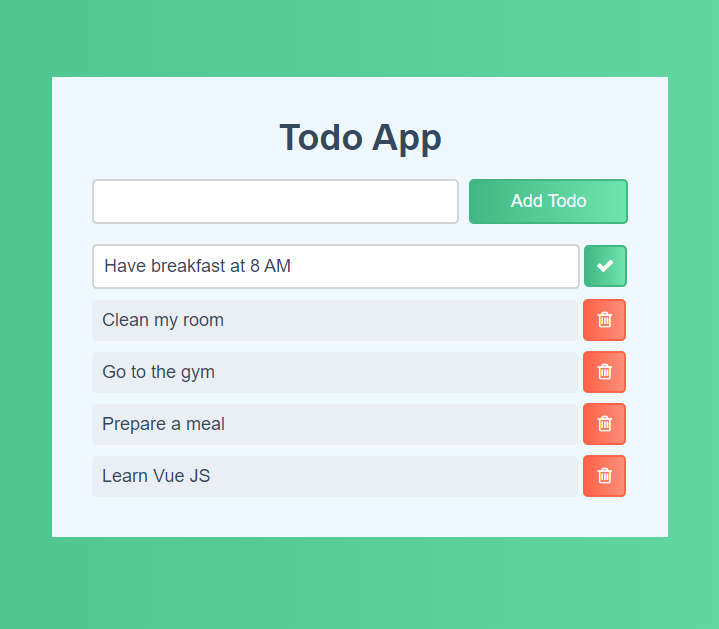
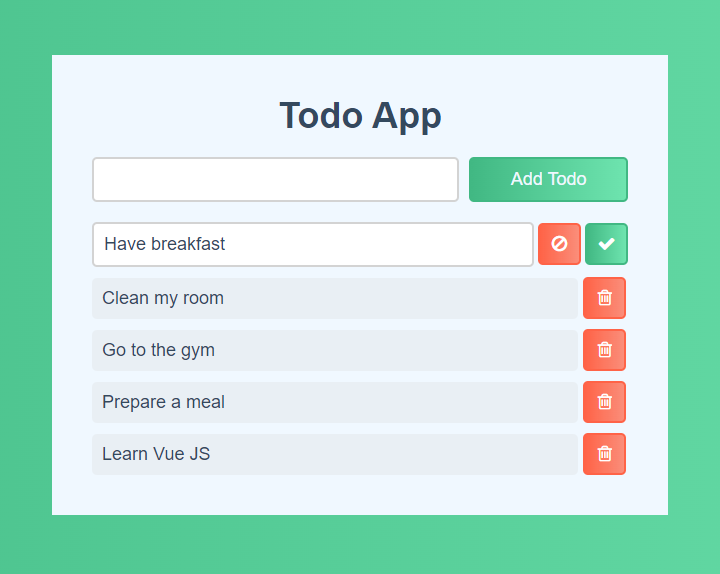
add new features to edit action

diff --git a/public/index.html b/public/index.html
@@ -26,10 +26,13 @@
           <ul>
             <li v-for="(todo, index) in todosList">
               <template v-if="todo.edit">
-                <input type="text" v-model="todo.task"><button @:click="editTodo(index)" class="fa fa-check edit-todo"></button>
+                <input type="text" v-model="todo.task">
+                <button @:click="cancelEditTodo(index)" class="fa fa-ban cancel-edit-todo"></button>
+                <button @:click="editTodo(index)" class="fa fa-check edit-todo"></button>
               </template>
               <template v-else>
-                <span @:click="showEditForm(index)">{{ todo.task }}</span><button @:click="deleteTodo(index)" class="fa fa-trash-o delete-todo"></button>
+                <span @:click="showEditForm(index)">{{ todo.task }}</span>
+                <button @:click="deleteTodo(index)" class="fa fa-trash-o delete-todo"></button>
               </template>
             </li>
           </ul>

diff --git a/js/index.js b/js/index.js
@@ -3,6 +3,7 @@ const app = Vue.createApp({
     return {
       message: 'Todo App',
       newTodo: '',
+      editing: false,
       todosList: [
         { task: 'Have breakfast', edit: false },
         { task: 'Clean my room', edit: false },
@@ -23,11 +24,22 @@ const app = Vue.createApp({
       }
     },
     showEditForm(index){
-      this.todosList[index].edit = true
+      if(!this.editing){
+        this.editing = true
+        this.todosList[index].edit = true
+      }
     },
     editTodo(index){
+      if(this.todosList[index].task.length >= 5){
+        this.todosList[index].edit = false
+        this.editing = false
+      }else{
+        alert('Please enter at least 5 characters')
+      }
+    },
+    cancelEditTodo(index){
       this.todosList[index].edit = false
-      this.toEditTodo = ''
+      this.editing = false
     },
     deleteTodo(index){
       this.todosList.splice(index, 1);

diff --git a/css/style.css b/css/style.css
@@ -108,7 +108,7 @@ body {
 .listTodoSection ul li input[type="text"] {
   font-size: 18px;
   padding: 10px;
-  width: 86.5%;
+  width: 78%;
   border-color: lightgray;
   border-radius: 5px;
   border-style: solid;
@@ -128,5 +128,16 @@ body {
   border-radius: 5px;
   margin-left: 4px;
   background-image: linear-gradient(to right, #41B883 , #6ee4af);
+  border-style: solid;
+}
+
+.listTodoSection ul li .cancel-edit-todo {
+  width: 8%;
+  color: white;
+  padding: 10px;
+  border-color: tomato;
+  border-radius: 5px;
+  margin-left: 4px;
+  background-image: linear-gradient(to right, tomato , rgba(255, 99, 71, 0.699));
   border-style: solid;
 }

diff --git a/README.md b/README.md
@@ -1,6 +1,6 @@
 # Basic Todo App
 
-This is a pretty basic TO DO app created using [Vue JS Framework](https://vuejs.org/)
+This is a pretty basic TO DO app created using [Vue.js](https://vuejs.org/)
 
 # Screenshots
 
